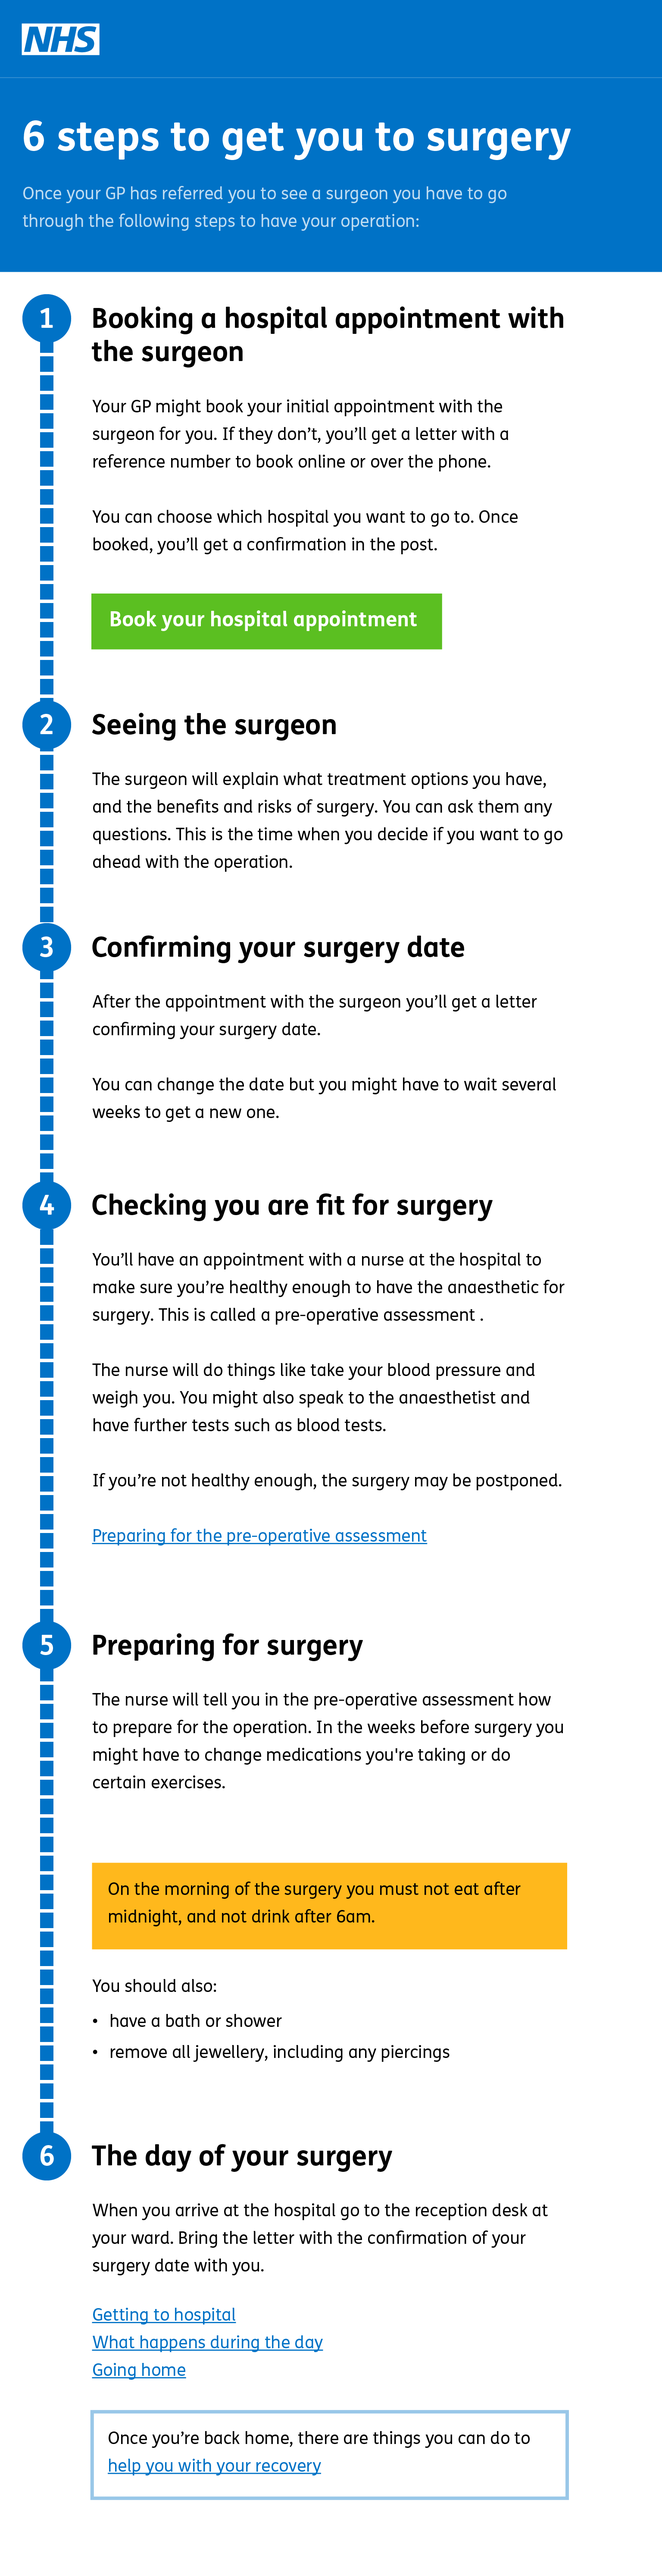
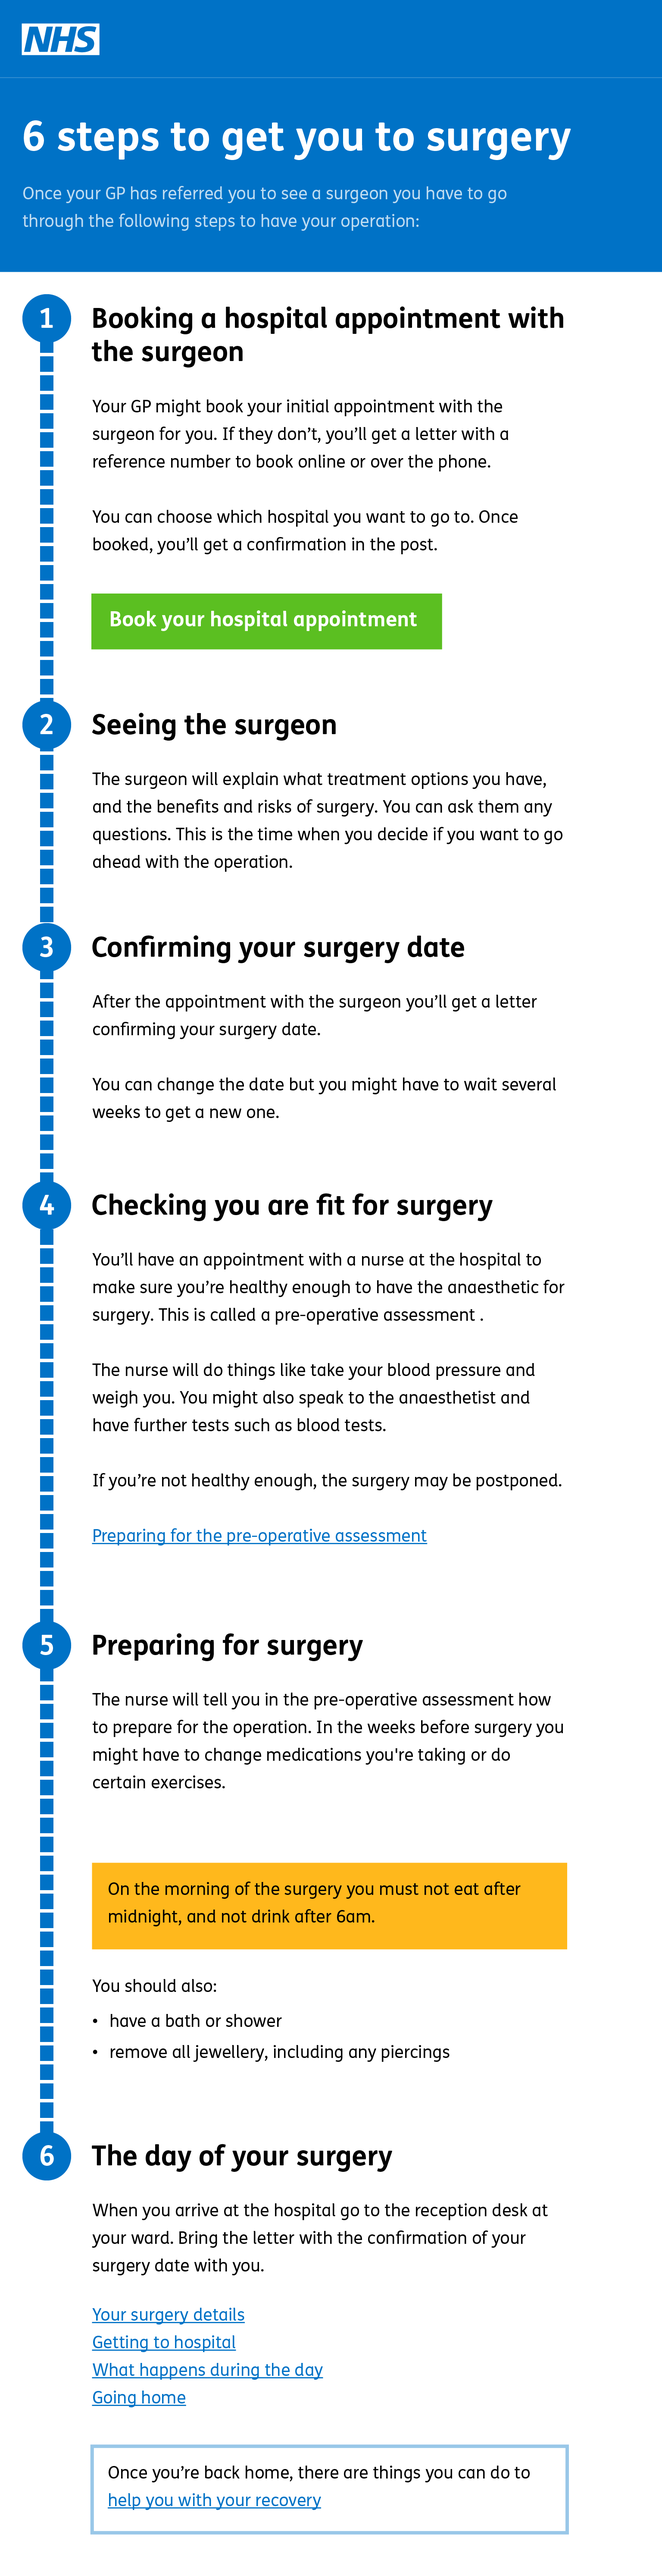
Hinrich's tweaks and links

Changed region(s): [[0.125, 0.9032, 0.8125, 0.9967], [0.8438, 0.9344, 0.875, 0.9967]]

diff --git a/steps-to-surgery/cover.html b/steps-to-surgery/cover.html
@@ -18,14 +18,14 @@
                 height: 40px;"></a>
 
       <!-- booking CTA -->
-      <a href="javascript:alert('This link is not active in this prototype');"
+      <a href="https://www.ebs.ncrs.nhs.uk/"
          style="top: 687px;
                 left: 105px;
                 width: 407px;
                 height: 65px;"></a>
 
       <!-- preparing for pre-op -->
-      <a href="javascript:alert('This link is not active in this prototype');"
+      <a href="http://www.nhs.uk/Video/Pages/Pre-operativeassessments.aspx"
          style="top: 1758px;
                 left: 105px;
                 width: 407px;
@@ -39,20 +39,26 @@
                 height: 30px;"></a>
 
       <a href="javascript:alert('This link is not active in this prototype');"
-         style="top: 2700px;
+         style="top: 2697px;
                 left: 105px;
                 width: 407px;
                 height: 30px;"></a>
 
       <a href="javascript:alert('This link is not active in this prototype');"
-         style="top: 2733px;
+         style="top: 2730px;
+                left: 105px;
+                width: 407px;
+                height: 30px;"></a>
+
+      <a href="javascript:alert('This link is not active in this prototype');"
+         style="top: 2763px;
                 left: 105px;
                 width: 407px;
                 height: 30px;"></a>
 
       <!-- recovery -->
       <a href="javascript:alert('This link is not active in this prototype');"
-         style="top: 2843px;
+         style="top: 2883px;
                 left: 115px;
                 width: 267px;
                 height: 30px;"></a>
